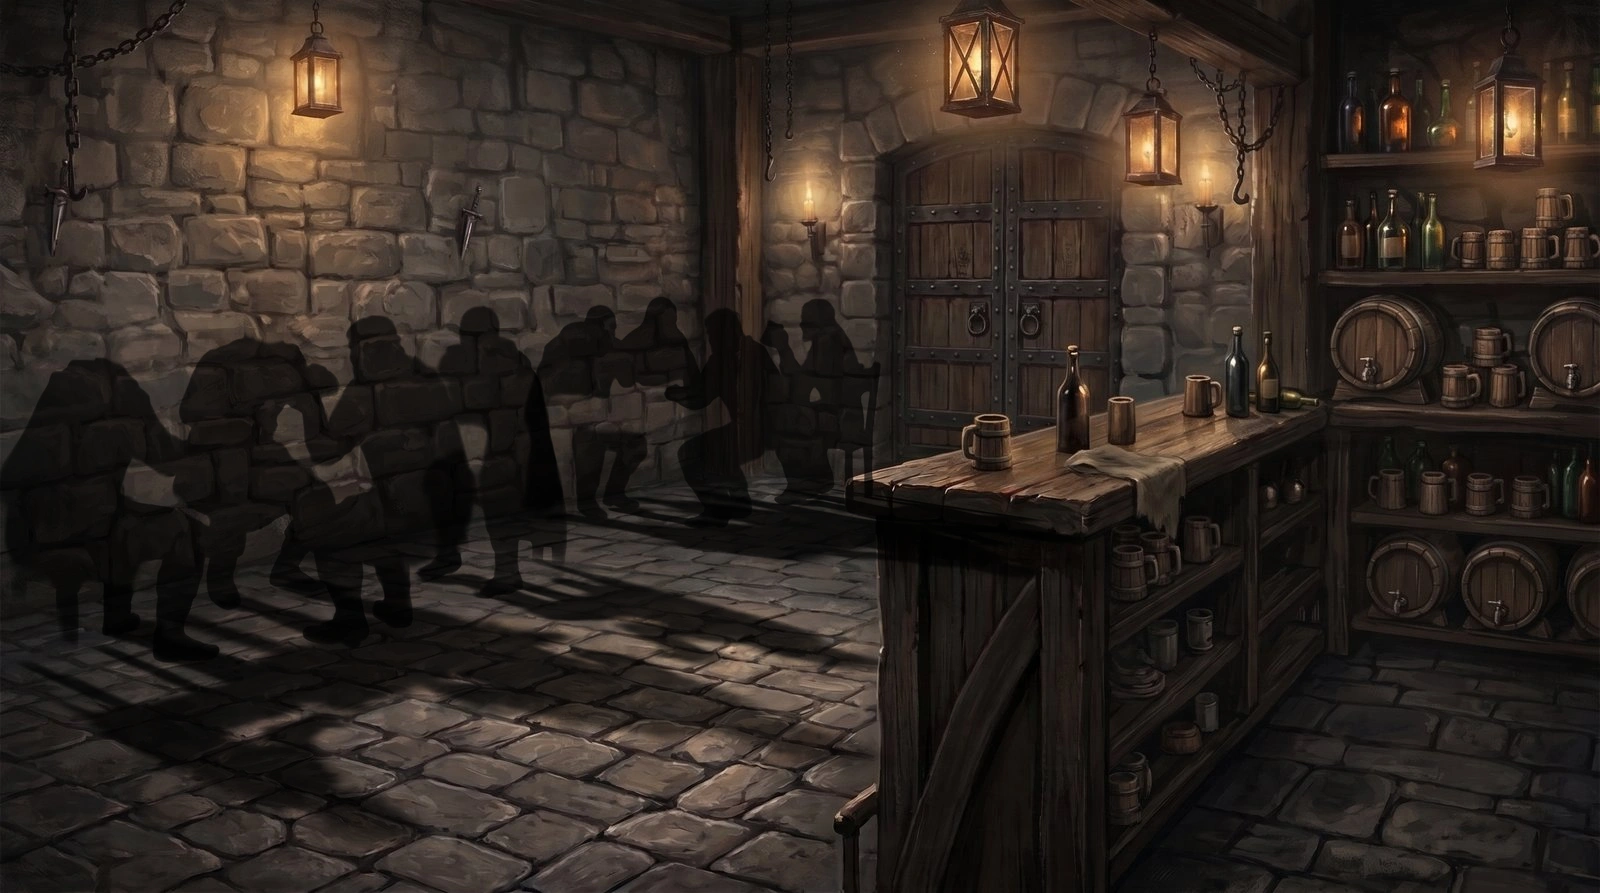
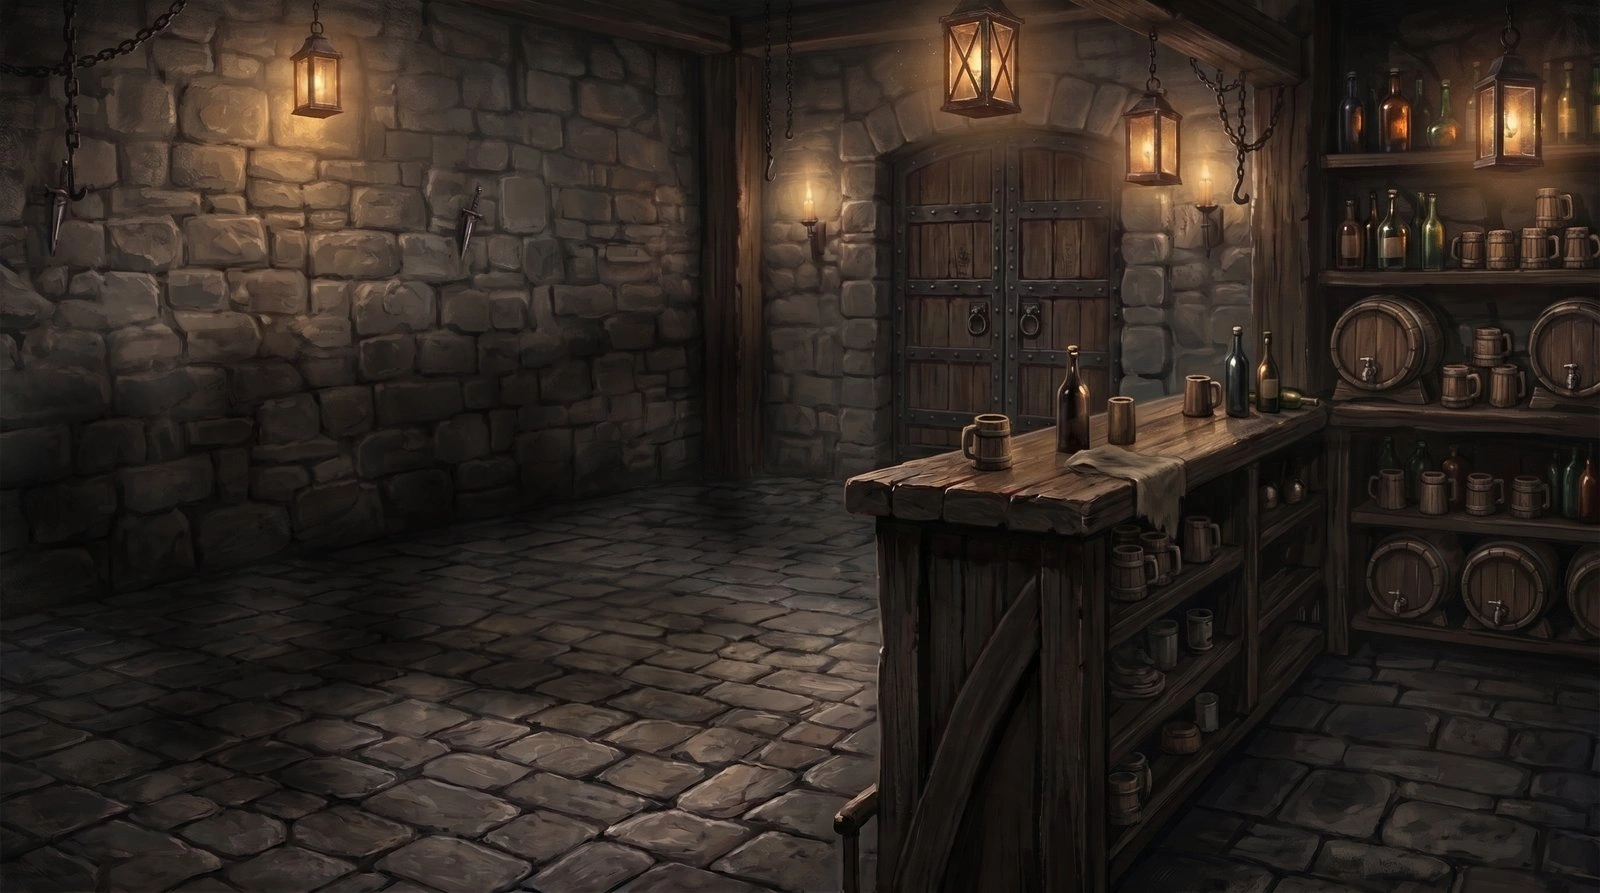
Taverne : ombres des clients floutées et coupées avant le comptoir
Idan : « Il faut couper l'image à peu près à la moitié (elle passe devant le comptoir, alors
qu'elle devrait pas...) Et faut vraiment la flouter beaucoup pour qu'elle soit raccord avec les
orcs ou les nains ». Dans scripts/build-tavern.js (SHADOW_EDIT) : flou de 1,5 % de la largeur,
puis effacées passé la moitié de l'image, en fondu (46 % → 52 %). fond.webp reconstruit ; test
et doc 11.

Claude-Session: https://claude.ai/code/session_01EeJJTXzBZEvAnWuDndFYuJ

diff --git a/scripts/build-tavern.js b/scripts/build-tavern.js
@@ -16,7 +16,7 @@
 // - ne garde d'une variante que ce qui touche la place du calque d'origine (Jean-Mi laisse parfois un « truc bizarre »
 //   ailleurs dans l'image : une bande de couleur, une tache) ;
 // - réduit chaque variante d'une table à la largeur de la table d'origine, ses pieds au même endroit ;
-// - assemble le décor avec les ombres (fond.webp) ;
+// - assemble le décor avec les ombres des clients, floutées et coupées avant le comptoir (fond.webp) ;
 // - calcule où chaque zone capte le pointeur (l'enveloppe de chaque calque et de toutes ses variantes) ;
 // - écrit prototype-web/tavern-layers.js, lu par la taverne (tavern-scene-ui.js).
 // Usage : node scripts/build-tavern.js            (télécharge les images depuis le site)
@@ -61,6 +61,10 @@ const VARIANT_SETS=[
   {layer:"table2",dir:/^alternate table ?2$/i,out:"table2",fit:true}
 ];
 const BACKGROUND=/bg_?empty/i,SHADOW=/shadow/i;
+// Les ombres des clients (Idan, 2026-11-14 : « Il faut couper l'image à peu près à la moitié (elle passe devant le
+// comptoir, alors qu'elle devrait pas...) Et faut vraiment la flouter beaucoup pour qu'elle soit raccord avec les orcs ou
+// les nains ») : floutées (blur, en part de la largeur), puis effacées à droite de la moitié (en fondu de cutFrom à cutTo).
+const SHADOW_EDIT={blur:0.015,cutFrom:0.46,cutTo:0.52};
 
 // Le nom d'une variante, tiré du fichier : « Dwarf_tavern_keeper_holding_ale_ab54f84f.jpg » → « holding-ale » ; une
 // version haute définition (« …_a43b3db4_2K.jpg ») porte le même nom que l'autre.
@@ -267,9 +271,12 @@ async function main(){
   fs.mkdirSync(OUT,{recursive:true});
   // Chaque image a sa taille (Idan les passe en haute définition une à une) : au format de la taverne.
   const sameFormat=r=>r&&Math.abs(r.h/r.w-SCENE.height/SCENE.width)<0.01;
-  // Le décor vide, assombri par les ombres des clients (sur fond blanc : « multiply »), à sa taille.
-  const shadow=find(SHADOW),fondPng=path.join(tmp,"fond.png");
-  execFileSync("convert",shadow?[background,"(",shadow,"-resize",`${bw}x${bh}!`,")","-compose","multiply","-composite",fondPng]:[background,fondPng]);
+  // Le décor vide, assombri par les ombres des clients (sur fond blanc : « multiply »), à sa taille ; les ombres floutées
+  // et coupées avant le comptoir (SHADOW_EDIT).
+  const shadow=find(SHADOW),fondPng=path.join(tmp,"fond.png"),{blur,cutFrom,cutTo}=SHADOW_EDIT;
+  const soft=["-resize",`${bw}x${bh}!`,"-blur",`0x${Math.round(blur*bw)}`,
+    "-fx",`i<w*${cutFrom} ? u : i>w*${cutTo} ? 1 : u+(1-u)*(i-w*${cutFrom})/(w*${round2(cutTo-cutFrom)})`];
+  execFileSync("convert",shadow?[background,"(",shadow,...soft,")","-compose","multiply","-composite",fondPng]:[background,fondPng]);
   writeWebp(await encodeWebp(page,fondPng),path.join(OUT,"fond.webp"));
   // L'ancienne image complète (le fond des autres salles, remplacé par le décor en calques) n'existe plus.
   fs.rmSync(path.join(OUT,"taverne.webp"),{force:true});
@@ -328,4 +335,4 @@ if(typeof module!=="undefined") module.exports={TAVERN_SOURCE_SIZE,TAVERN_LAYER_
 }
 
 if(require.main===module) main().catch(error=>{ console.error(error); process.exit(1); });
-module.exports={variantKey,hull,keyPixels,KEY};
+module.exports={variantKey,hull,keyPixels,KEY,SHADOW_EDIT};

diff --git a/tests/tavern-scene.test.js b/tests/tavern-scene.test.js
@@ -101,7 +101,11 @@ assert.deepEqual([api.pickTavernier(()=>0).key,api.pickTavernier(()=>0.9999).key
 assert.equal(api.TAVERN_ZONES.find(z=>z.key==="talk").hulls.length,1,"une seule enveloppe pour tous les taverniers");
 assert.match(js,/if\(now==="tavern"&&lastScene!=="tavern"\) chooseVariants\(\);/,"un nouveau tirage à chaque entrée");
 assert.ok(html.indexOf('src="tavern-layers.js"')<html.indexOf('src="tavern-scene-ui.js"'));
-const {variantKey,keyPixels,KEY}=require("../scripts/build-tavern.js");
+const {variantKey,keyPixels,KEY,SHADOW_EDIT}=require("../scripts/build-tavern.js");
+// Les ombres des clients (Idan, 2026-11-14 : « couper l'image à peu près à la moitié (elle passe devant le comptoir) » ;
+// « la flouter beaucoup pour qu'elle soit raccord avec les orcs ou les nains ») : floutées, effacées passé la moitié.
+assert.ok(SHADOW_EDIT.blur>=0.01,"un flou fort");
+assert.ok(SHADOW_EDIT.cutFrom>=0.4&&SHADOW_EDIT.cutTo<=0.55&&SHADOW_EDIT.cutFrom<SHADOW_EDIT.cutTo,"coupées vers la moitié, en fondu");
 assert.deepEqual(["Dwarf_tavern_keeper_holding_ale_ab54f84f.jpg","Dwarf_counting_coins_9f85b58d.jpg","Surprised_dwarf_tavern_keeper_st…_28bf94a3.jpg",
   "Dwarf_counting_coins_7a5d88a1_2K.jpg","Orcs_table.jpg"].map(variantKey),
   ["holding-ale","counting-coins","surprised-st","counting-coins","orcs-table"],"une version _2K porte le même nom que l'autre");

diff --git a/docs/design/11-camp-and-ruined-castle.md b/docs/design/11-camp-and-ruined-castle.md
@@ -37,7 +37,7 @@ Fonctions validées :
 
 **Interface (Idan, 2026-11-11 ; 2026-11-14)** : le picto **Taverne** de la barre du bas mène à la taverne (plus de menu déroulant depuis le 14 novembre). L'accueil de la taverne n'a plus de boutons ni de bulle sur le tavernier : son décor a des zones cliquables (Trouver une mission, Recruter, La Cantine, La Cave, Parler au tavernier), que reprend le menu du bouton du lieu de la barre du bas (doc 16).
 
-**Le décor de la Taverne en calques (Idan, 2026-11-11 ; dans le jeu le 2026-11-14)** : Idan a découpé la taverne en calques, sur fond vert (`media/background/Taverne/` sur Hostinger ; un premier essai dans l'artefact « Taverne en calques » du 11 novembre) ; `scripts/build-tavern.js` les détoure et les range dans le jeu, à la taille des images d'Idan (haute définition comprise : « la qualité avant le poids », AGENTS.md) : le décor vide avec les ombres des clients, puis le **tableau des primes** (Trouver une mission), le **menu** (La Cantine), les **deux tables de clients** (Recruter), la **trappe** (La Cave), le **tavernier** (lui parler) et les **tonneaux du premier plan**, posés dans le repère de son image (1376 × 768 ; `prototype-web/assets/taverne/`). Idan : « je pensais que tu allais prendre ça et qu'on allait superposer les png dessus... et faire un glow au survol ». Sur l'accueil de la taverne, au survol d'un élément cliquable, il s'éclaire d'un contour lumineux et son nom apparaît, fin et petit ; le clic se décide au pixel près (le calque le plus haut qui est opaque sous le pointeur : les tonneaux cachent ce qui est derrière eux). Les autres salles de la taverne gardent le même décor en fond, avec le même tavernier, et il s'efface en fondu à la sortie (Idan, 2026-11-14 : plus de « glimpse entre le tavernier par défaut et l'alternate »). **Le tavernier et les tables changent** à chaque entrée dans la taverne (Idan, 2026-11-14 : « au chargement de la taverne, on charge une image au hasard du tavernier » ; pour les tables : « L'idée, c'est des variantes. Mais ces tables sont plus grandes que la table 1, il faut rétrécir et remplacer ») : l'original ou l'une des variantes d'Idan (`media/background/Taverne/Alternate tavernier/`, `Alternate table 1/` et `Alternate table 2/`, détourées de même dans `prototype-web/assets/taverne/taverniers/`, `table1/` et `table2/` ; cadres et zones : `prototype-web/tavern-layers.js`). Une variante de table est réduite à la largeur de la table d'origine, ses pieds au même endroit ; la zone « Recruter » les couvre toutes. D'une variante, seul ce qui touche la place du calque d'origine est gardé (Idan : « une table 2 alternative avec un truc bizarre » : une bande de couleur laissée par Jean-Mi au bas de l'image). **Le détourage** (2026-11-14, `scripts/build-tavern.js`) : le fond peut être de n'importe quelle couleur vive (vert, magenta : Idan, « je peux la mettre aussi sur un fond autre ») ; l'intérieur des personnages n'est pas touché (les orques gardent leur peau, une cape verte son vert) ; seuls les bords sont nettoyés, d'après la couleur de l'objet juste à côté. Les images sont en WebP qualité 95 (l'encodeur de Chromium : sans différence visible, et la page charge — Idan : « Faut quand même qu'on puisse charger la page ! »). La taverne n'a plus de bouton « ← Retour au camp » (Idan : « il ne sert à rien ») : le Château de la barre du bas y ramène. La vidéo est retirée pour l'instant (Idan, 2026-11-14 : « on va la virer pour l'instant […] l'urgence, c'est de faire quelque chose de joli » ; la vidéo et l'animation du tavernier, essayées dans l'artefact, viendront plus tard) (`prototype-web/tavern-scene-ui.js`).
+**Le décor de la Taverne en calques (Idan, 2026-11-11 ; dans le jeu le 2026-11-14)** : Idan a découpé la taverne en calques, sur fond vert (`media/background/Taverne/` sur Hostinger ; un premier essai dans l'artefact « Taverne en calques » du 11 novembre) ; `scripts/build-tavern.js` les détoure et les range dans le jeu, à la taille des images d'Idan (haute définition comprise : « la qualité avant le poids », AGENTS.md) : le décor vide avec les ombres des clients (floutées et coupées à la moitié de l'image, avant le comptoir — Idan, 2026-11-14 : « elle passe devant le comptoir, alors qu'elle devrait pas » ; « la flouter beaucoup pour qu'elle soit raccord avec les orcs ou les nains »), puis le **tableau des primes** (Trouver une mission), le **menu** (La Cantine), les **deux tables de clients** (Recruter), la **trappe** (La Cave), le **tavernier** (lui parler) et les **tonneaux du premier plan**, posés dans le repère de son image (1376 × 768 ; `prototype-web/assets/taverne/`). Idan : « je pensais que tu allais prendre ça et qu'on allait superposer les png dessus... et faire un glow au survol ». Sur l'accueil de la taverne, au survol d'un élément cliquable, il s'éclaire d'un contour lumineux et son nom apparaît, fin et petit ; le clic se décide au pixel près (le calque le plus haut qui est opaque sous le pointeur : les tonneaux cachent ce qui est derrière eux). Les autres salles de la taverne gardent le même décor en fond, avec le même tavernier, et il s'efface en fondu à la sortie (Idan, 2026-11-14 : plus de « glimpse entre le tavernier par défaut et l'alternate »). **Le tavernier et les tables changent** à chaque entrée dans la taverne (Idan, 2026-11-14 : « au chargement de la taverne, on charge une image au hasard du tavernier » ; pour les tables : « L'idée, c'est des variantes. Mais ces tables sont plus grandes que la table 1, il faut rétrécir et remplacer ») : l'original ou l'une des variantes d'Idan (`media/background/Taverne/Alternate tavernier/`, `Alternate table 1/` et `Alternate table 2/`, détourées de même dans `prototype-web/assets/taverne/taverniers/`, `table1/` et `table2/` ; cadres et zones : `prototype-web/tavern-layers.js`). Une variante de table est réduite à la largeur de la table d'origine, ses pieds au même endroit ; la zone « Recruter » les couvre toutes. D'une variante, seul ce qui touche la place du calque d'origine est gardé (Idan : « une table 2 alternative avec un truc bizarre » : une bande de couleur laissée par Jean-Mi au bas de l'image). **Le détourage** (2026-11-14, `scripts/build-tavern.js`) : le fond peut être de n'importe quelle couleur vive (vert, magenta : Idan, « je peux la mettre aussi sur un fond autre ») ; l'intérieur des personnages n'est pas touché (les orques gardent leur peau, une cape verte son vert) ; seuls les bords sont nettoyés, d'après la couleur de l'objet juste à côté. Les images sont en WebP qualité 95 (l'encodeur de Chromium : sans différence visible, et la page charge — Idan : « Faut quand même qu'on puisse charger la page ! »). La taverne n'a plus de bouton « ← Retour au camp » (Idan : « il ne sert à rien ») : le Château de la barre du bas y ramène. La vidéo est retirée pour l'instant (Idan, 2026-11-14 : « on va la virer pour l'instant […] l'urgence, c'est de faire quelque chose de joli » ; la vidéo et l'animation du tavernier, essayées dans l'artefact, viendront plus tard) (`prototype-web/tavern-scene-ui.js`).
 
 <aside>
 🍺
